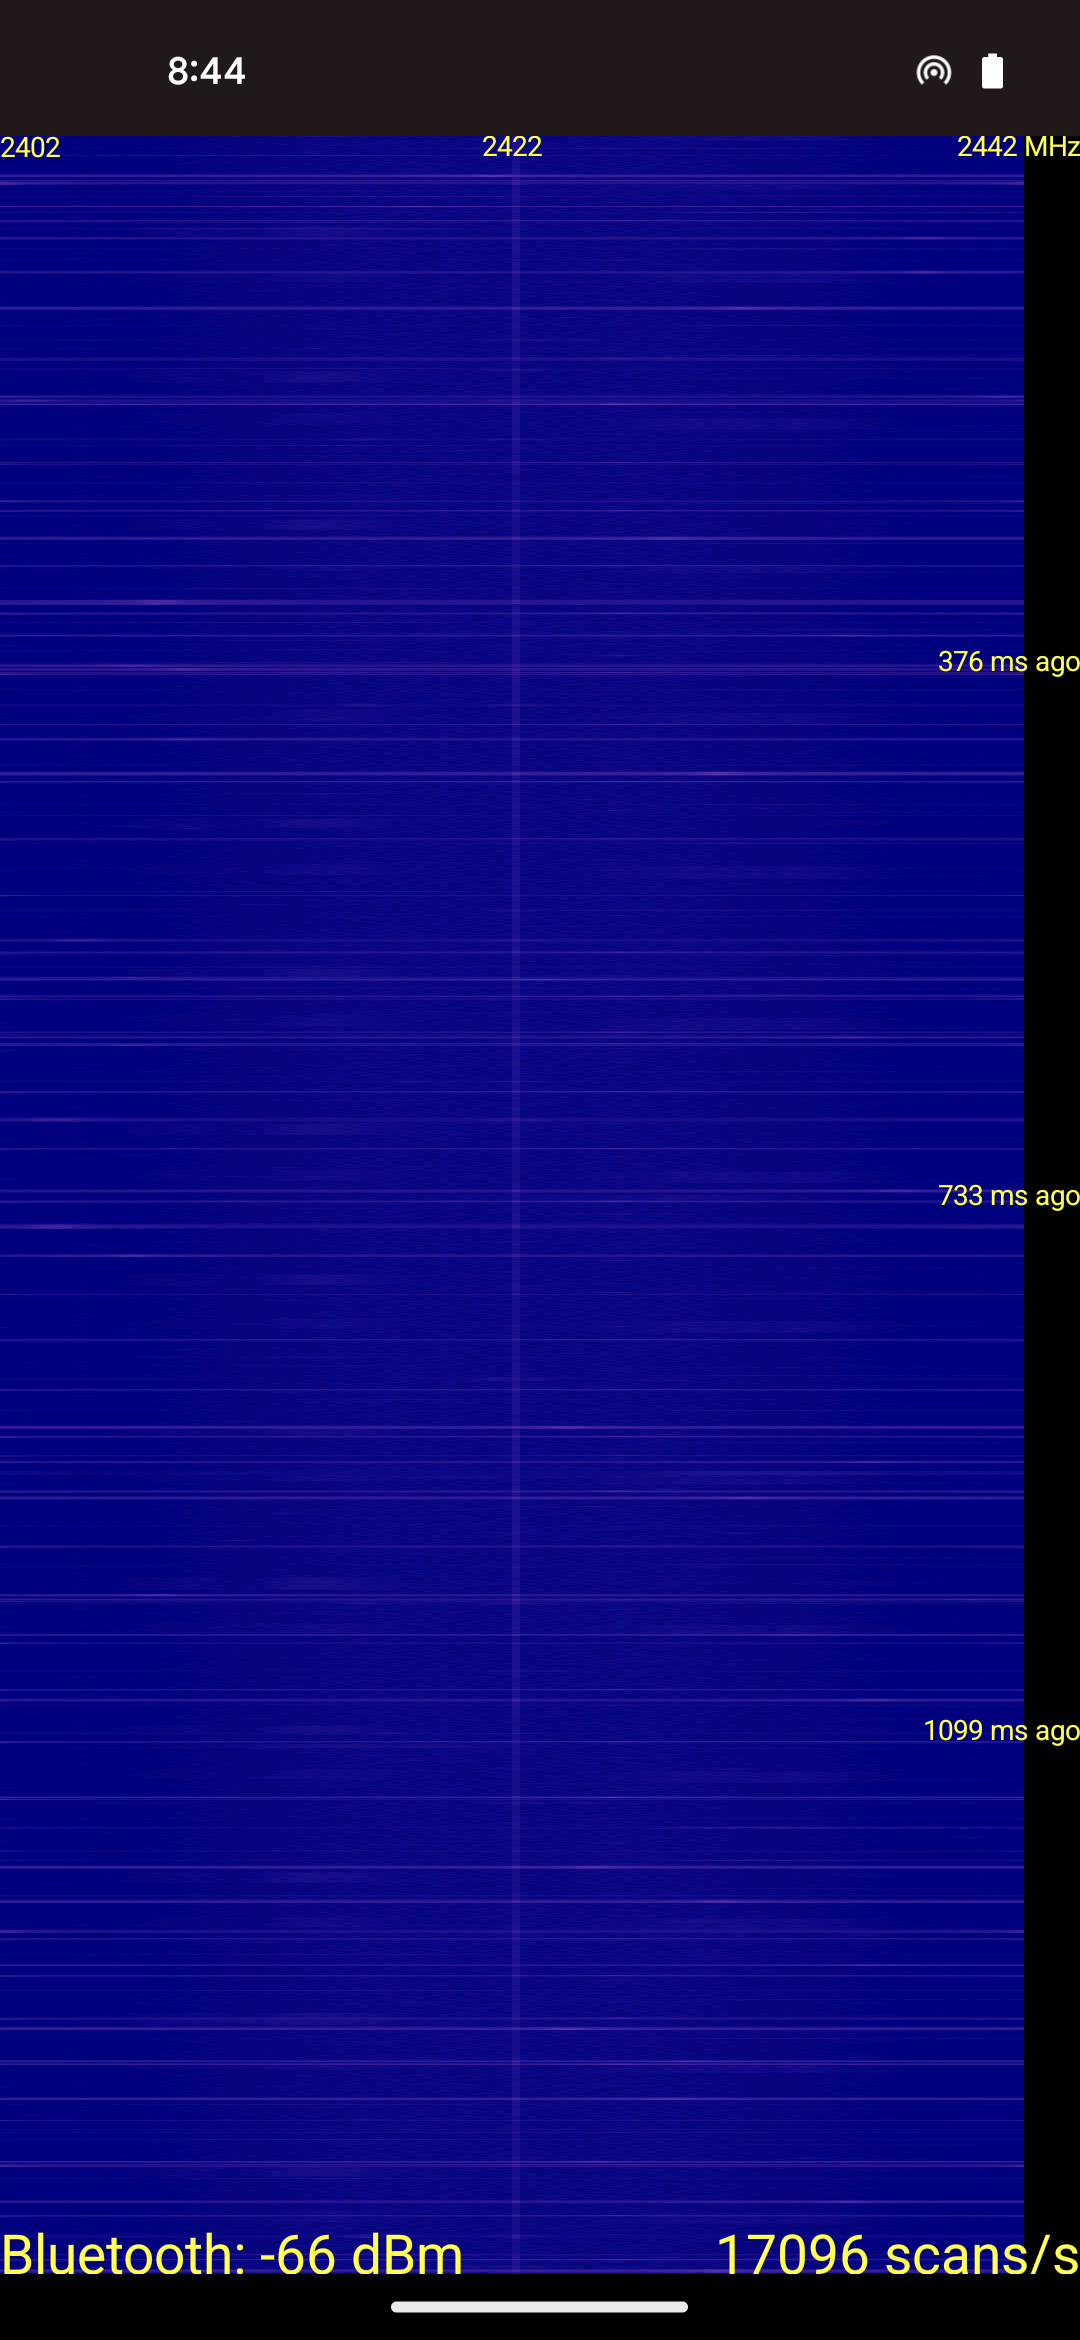
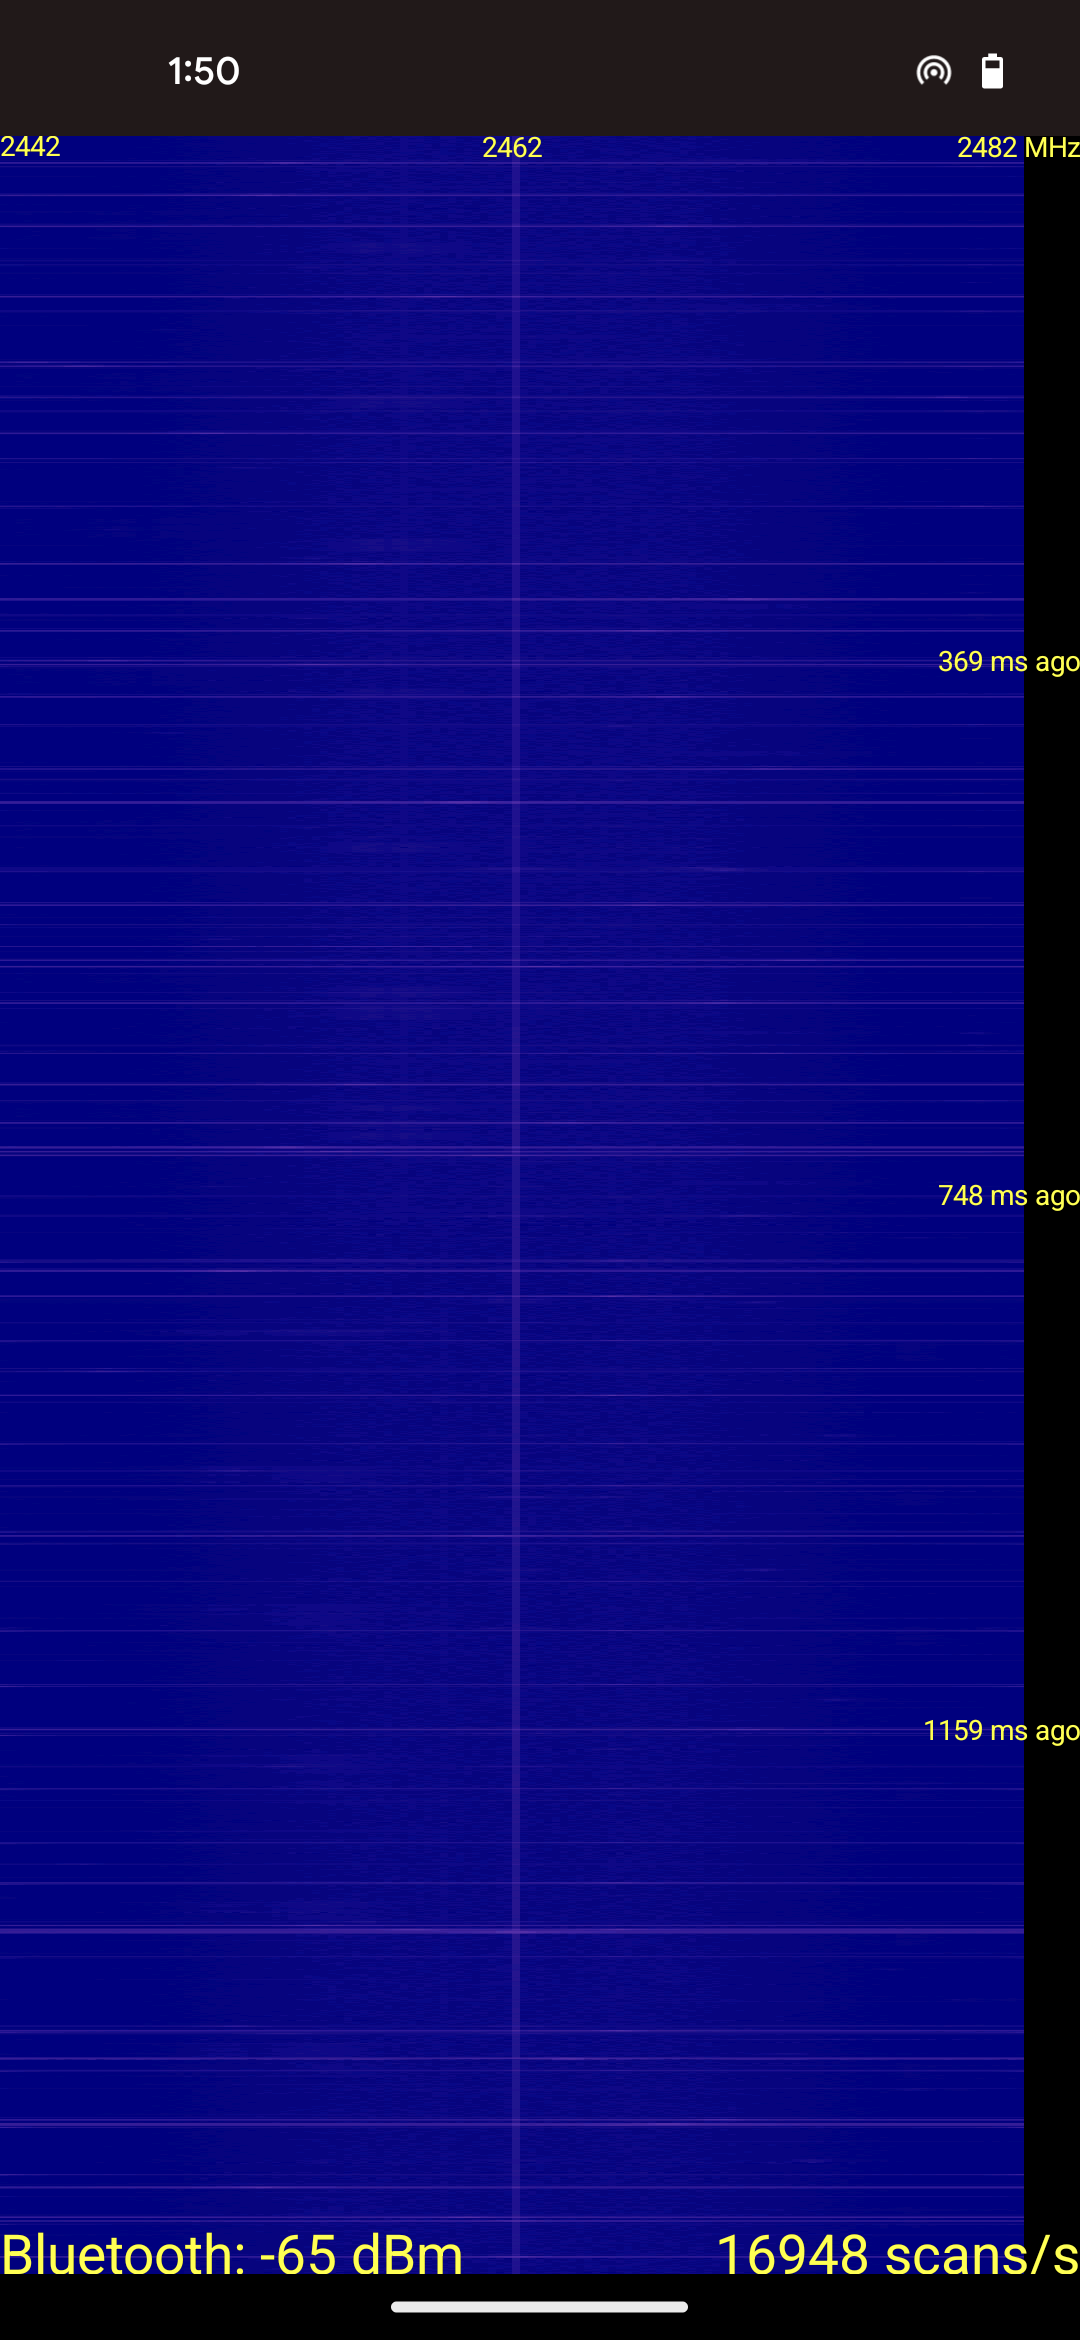
Update screen recordings

diff --git a/README.md b/README.md
@@ -33,7 +33,7 @@ This app shows a spectrogram on the screen, where brighter colors indicate highe
   </tr>
   <tr>
     <td width="50%">
-      <a href="https://github.com/user-attachments/assets/5a0aeade-2124-4dcb-80f3-5166d550d1bb">
+      <a href="https://github.com/user-attachments/assets/b6537856-cbd7-48f2-b760-57ccd7867566">
         <img
           src="assets/images/sweep.png"
           alt="A screenshot of the app in the presence of frequency sweeps."
@@ -41,7 +41,7 @@ This app shows a spectrogram on the screen, where brighter colors indicate highe
       </a>
     </td>
     <td width="50%">
-      <a href="https://github.com/user-attachments/assets/7c691a20-e685-4530-bd0e-725f1383ef5e">
+      <a href="https://github.com/user-attachments/assets/c48b180e-8bed-4f47-8661-96962567bdf9">
         <img
           src="assets/images/bluetooth.png"
           alt="A screenshot of the app in the presence of Bluetooth transmission."
